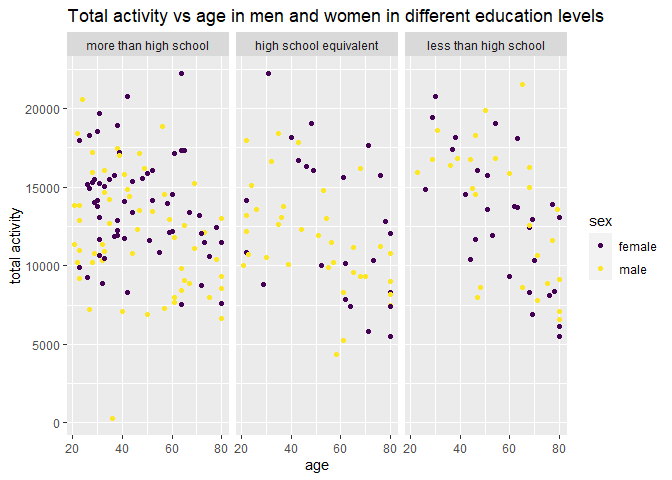
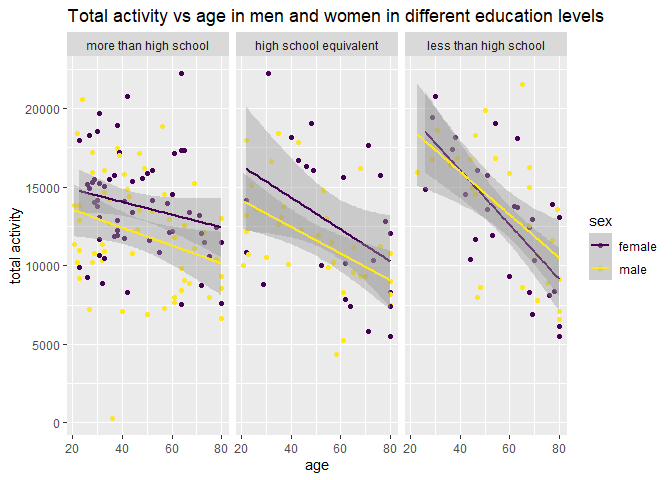
final

Changed region(s): [[0.0938, 0.2188, 0.5938, 0.6562], [0.5938, 0.1875, 0.8438, 0.6562], [0.875, 0.4688, 0.9375, 0.5938]]

diff --git a/p8105_hw3_iho2104.md b/p8105_hw3_iho2104.md
@@ -1,7 +1,7 @@
 p8105_hw3_iho2104
 ================
 Ixtaccihuatl Obregon
-2023-10-13
+2023-10-14
 
 ``` r
 library(tidyverse)
@@ -27,23 +27,16 @@ library(p8105.datasets)
 
 ## Problem 1
 
-Write a short description of the dataset, noting the size and structure
-of the data, describing some key variables, and giving illustrative
-examples of observations.
-
-Then, do or answer the following (commenting on the results of each):
-
-How many aisles are there, and which aisles are the most items ordered
-from?
-
-There are 134 aisles and most items are fresh fruits and vegetables.
-
 ``` r
 data("instacart")
 instacart = 
   instacart |> 
   as_tibble()
 ```
+
+Description: There are 1384617 observations and 15 columns/variables.
+Important variables include product_id, user_id, aisle_id and
+product_name.
 
 ``` r
 instacart |> 
@@ -65,6 +58,10 @@ instacart |>
     ##  9 soy lactosefree                26240
     ## 10 bread                          23635
     ## # ℹ 124 more rows
+
+How many aisles are there, and which aisles are the most items ordered
+from? There are 134 aisles and most items are fresh fruits and
+vegetables.
 
 Make a plot that shows the number of items ordered in each aisle,
 limiting this to aisles with more than 10000 items ordered. Arrange
@@ -139,16 +136,10 @@ instacart |>
 data("brfss_smart2010")
 ```
 
-First, do some data cleaning:
-
-- format the data to use appropriate variable names;
-
-- focus on the “Overall Health” topic
-
-- include only responses from “Excellent” to “Poor”
-
-- organize responses as a factor taking levels ordered from “Poor” to
-  “Excellent”
+First, do some data cleaning: - format the data to use appropriate
+variable names; - focus on the “Overall Health” topic - include only
+responses from “Excellent” to “Poor” - organize responses as a factor
+taking levels ordered from “Poor” to “Excellent”
 
 ``` r
 brfss_df =  
@@ -157,9 +148,6 @@ brfss_df =
   filter(str_detect("Overall Health", topic)) |> 
   arrange(factor(response, levels = c("Poor", "Fair", "Very Good", "Good", "Excellent")))
 ```
-
-- In 2002, which states were observed at 7 or more locations? 36
-  locations consisting of: AZ, CO, CT, DE, FL, GA, HI, ID, IL, IN
 
 ``` r
 brfss_df |> 
@@ -184,21 +172,42 @@ brfss_df |>
     ## 10 IN                     10
     ## # ℹ 26 more rows
 
-What about in 2010? 45 locations consisting of: AL, AR, AZ, CA, CO, CT,
-DE, FL, GA, HI
+- In 2002, 36 states were observed at 7 or more locations. 36 states
+  being AZ, CO, CT, DE, FL, GA, HI, ID, IL, IN, KS, LA, MA, MD, ME, MI,
+  MN, MO, NC, NE, NH,NJ, NV, NY, OH, OK, OR, PA, RI, SC, SD, TN, TX, UT,
+  VT, and WA.
 
 ``` r
-brfss_2002 = brfss_df |> 
+ brfss_df |> 
   filter(year == 2010) |> 
   group_by(locationabbr) |> 
   summarize(observations =n()) |> 
   filter(observations >= 7) 
 ```
 
+    ## # A tibble: 45 × 2
+    ##    locationabbr observations
+    ##    <chr>               <int>
+    ##  1 AL                     15
+    ##  2 AR                     15
+    ##  3 AZ                     15
+    ##  4 CA                     60
+    ##  5 CO                     35
+    ##  6 CT                     25
+    ##  7 DE                     15
+    ##  8 FL                    205
+    ##  9 GA                     20
+    ## 10 HI                     20
+    ## # ℹ 35 more rows
+
+In 2010, 45 locations consisting of: AL, AR, AZ, CA, CO, CT, DE, FL, GA,
+HI, IA, ID, IL, IN, KS, LA, MA, MD, ME, MI, MN, MO, MS, MT, NC, ND, NE,
+NH, NJ, NM, NV, NY, O, OK, OR, PA, RI, SC, SD, TN, TX, UT, VT, WA, and
+WY, had more than 7 or more locations .
+
 - Construct a dataset that is limited to Excellent responses, and
   contains, year, state, and a variable that averages the data_value
   across locations within a state.
-
 - Make a “spaghetti” plot of this average value over time within a state
   (that is, make a plot showing a line for each state across years – the
   geom_line geometry and group aesthetic will help).
@@ -209,11 +218,24 @@ brfss_excellent =
   filter(str_detect("Excellent", response)) |> 
   group_by(locationabbr, year) |> 
   summarize(avg_data_value = mean(data_value, na.rm = TRUE) ) |> 
-  select(year, locationabbr, avg_data_value ) 
+  select(year, locationabbr, avg_data_value ) |> 
+  ggplot(aes(x = year, 
+             y = avg_data_value, color = locationabbr))+
+  geom_line() +
+  labs(title = "average value over time within a state",
+       x = "year",
+       y = "mean") +
+  viridis::scale_color_viridis(discrete = T )
 ```
 
     ## `summarise()` has grouped output by 'locationabbr'. You can override using the
     ## `.groups` argument.
+
+``` r
+brfss_excellent
+```
+
+![](p8105_hw3_iho2104_files/figure-gfm/unnamed-chunk-11-1.png)<!-- -->
 
 - Make a two-panel plot showing, for the years 2006, and 2010,
   distribution of data_value for responses (“Poor” to “Excellent”) among
@@ -222,15 +244,20 @@ brfss_excellent =
 ``` r
 brfss_ny = brfss_df |> 
   filter(locationabbr == "NY", year %in% c(2006, 2010)) |> 
-  ggplot( aes(x = factor(response, levels = c("Poor", "Fair", "Good", "Very good", "Excellent")),  
-             y = data_value)) +
+  ggplot( aes(
+            x = factor(response, levels = c("Poor", "Fair", "Good", "Very good", "Excellent")),  
+             y = data_value, 
+            color = locationdesc)) +
   geom_point() +
   facet_wrap(~ year, ncol = 2) +
   labs(title = "Distribution of data_value by Response in NY State Counties",
        x = "Response",
        y = "Data Value") +
   viridis::scale_color_viridis(discrete = T )
+brfss_ny
 ```
+
+![](p8105_hw3_iho2104_files/figure-gfm/unnamed-chunk-12-1.png)<!-- -->
 
 ## Problem 3
 
@@ -241,9 +268,101 @@ demographic data; and encode data with reasonable variable classes
 (i.e. not numeric, and using factors with the ordering of tables and
 plots in mind).
 
+``` r
+nhanes_demo = read_csv("Data/nhanes_covar.csv", skip = 3) |> 
+  janitor::row_to_names(row_number = 1) |> 
+  janitor::clean_names() |> 
+   mutate(
+    sex = 
+      case_match(
+        sex, 
+        "1" ~ "male", 
+        "2" ~ "female"),
+    sex = as.factor(sex), 
+    education = 
+      case_match(
+        education, 
+        "1" ~ "less than high school", 
+        "2" ~ "high school equivalent", 
+        "3" ~ "more than high school"),
+    education = as.factor(education), 
+    seqn = as.numeric(seqn),
+    age = as.numeric(age),
+    bmi = as.numeric(bmi)) |> 
+  filter(age >= 21) |> 
+  na.omit(BMI, education) 
+```
+
+    ## New names:
+    ## Rows: 251 Columns: 5
+    ## ── Column specification
+    ## ──────────────────────────────────────────────────────── Delimiter: "," chr
+    ## (5): ...1, ...2, ...3, ...4, ...5
+    ## ℹ Use `spec()` to retrieve the full column specification for this data. ℹ
+    ## Specify the column types or set `show_col_types = FALSE` to quiet this message.
+    ## • `` -> `...1`
+    ## • `` -> `...2`
+    ## • `` -> `...3`
+    ## • `` -> `...4`
+    ## • `` -> `...5`
+
+``` r
+nhanes_accel = read_csv("Data/nhanes_accel.csv") |> 
+  janitor::clean_names() |> 
+  mutate(seqn = as.numeric(seqn)) 
+```
+
+    ## Rows: 250 Columns: 1441
+    ## ── Column specification ────────────────────────────────────────────────────────
+    ## Delimiter: ","
+    ## dbl (1441): SEQN, min1, min2, min3, min4, min5, min6, min7, min8, min9, min1...
+    ## 
+    ## ℹ Use `spec()` to retrieve the full column specification for this data.
+    ## ℹ Specify the column types or set `show_col_types = FALSE` to quiet this message.
+
+``` r
+nhanes_df = inner_join(nhanes_demo,nhanes_accel, by = "seqn")
+```
+
 Produce a reader-friendly table for the number of men and women in each
 education category, and create a visualization of the age distributions
 for men and women in each education category. Comment on these items.
+
+``` r
+nhanes_df |> 
+  count(sex, education)  |> 
+  pivot_wider(
+    names_from = education, 
+    values_from = n)
+```
+
+    ## # A tibble: 2 × 4
+    ##   sex    `high school equivalent` `less than high school` more than high schoo…¹
+    ##   <fct>                     <int>                   <int>                  <int>
+    ## 1 female                       23                      28                     59
+    ## 2 male                         35                      27                     56
+    ## # ℹ abbreviated name: ¹`more than high school`
+
+``` r
+nhanes_df |> 
+  ggplot(aes(
+    x = factor(education, levels = c("more than high school", "high school equivalent", "less than high school")),
+    y = age, 
+    fill = sex
+  )) +
+  geom_boxplot()+ 
+  labs(title = "age distributions for men and women in each education category",
+       x = "education",
+       y = "age") +
+  viridis::scale_color_viridis(discrete = T )  
+```
+
+![](p8105_hw3_iho2104_files/figure-gfm/unnamed-chunk-15-1.png)<!-- -->
+
+Comment: The mean age is similar between females and males in the “less
+than high school” and “more than high school” education groups. On
+average, females were older than men in the “high school equivalent
+group”.
 
 Using your tidied dataset, aggregate across minutes to create a total
 activity variable for each participant. Plot these total activities
@@ -251,7 +370,63 @@ activity variable for each participant. Plot these total activities
 have separate panels for each education level. Include a trend line or a
 smooth to illustrate differences. Comment on your plot.
 
+``` r
+nhanes_df |> 
+  mutate(total_activity = rowSums(across(min1:min1440))) |> 
+  ggplot( aes(
+            x = age,  
+             y = total_activity, 
+            color = sex)) +
+  geom_point() +
+  geom_smooth(method = lm) + 
+  facet_wrap(~ factor(education, levels = c("more than high school", "high school equivalent", "less than high school")), ncol = 3) +
+  labs(title = "Total activity vs age in men and women in different education levels",
+       x = "age",
+       y = "total activity") +
+  viridis::scale_color_viridis(discrete = T )
+```
+
+    ## `geom_smooth()` using formula = 'y ~ x'
+
+![](p8105_hw3_iho2104_files/figure-gfm/unnamed-chunk-16-1.png)<!-- -->
+
+Comment: Females and males with high school equivalent or more than high
+school education are seen to maintain there activity levels as they age.
+Those in the less than high school education show a decline in total
+activity as they age, with females showing the bigger decrease trend.
+
 Make a three-panel plot that shows the 24-hour activity time courses for
 each education level and use color to indicate sex. Describe in words
 any patterns or conclusions you can make based on this graph; including
 smooth trends may help identify differences.
+
+``` r
+nhanes_df |> 
+  pivot_longer(
+    min1:min1440, 
+    names_to = "minute", 
+    values_to = "activity") |> 
+  mutate(minute = as.numeric(str_sub(minute,4, -1))) |> 
+  ggplot(aes(
+    x = minute, 
+    y = activity,
+    color = sex
+  )) +
+    geom_point(alpha = 1/10, size = 0.2)+
+    geom_smooth()+
+    facet_wrap(~ factor(education, levels = c("more than high school", "high school equivalent", "less than high school")), ncol = 3) +
+  labs(title = "24-hour activity time courses for each education level",
+       x = "minute of day",
+       y = "activity") +
+  viridis::scale_color_viridis(discrete = T )
+```
+
+    ## `geom_smooth()` using method = 'gam' and formula = 'y ~ s(x, bs = "cs")'
+
+![](p8105_hw3_iho2104_files/figure-gfm/unnamed-chunk-17-1.png)<!-- -->
+
+Comment: Individuals showed a similar trend regardless of sex and/or
+education. However, in the “more than high school” education, the
+females showed more of a plateau trend starting at min500 than their
+male counterparts. The female individuals have a slightly higher
+activity level which could help idenitify some differences.
